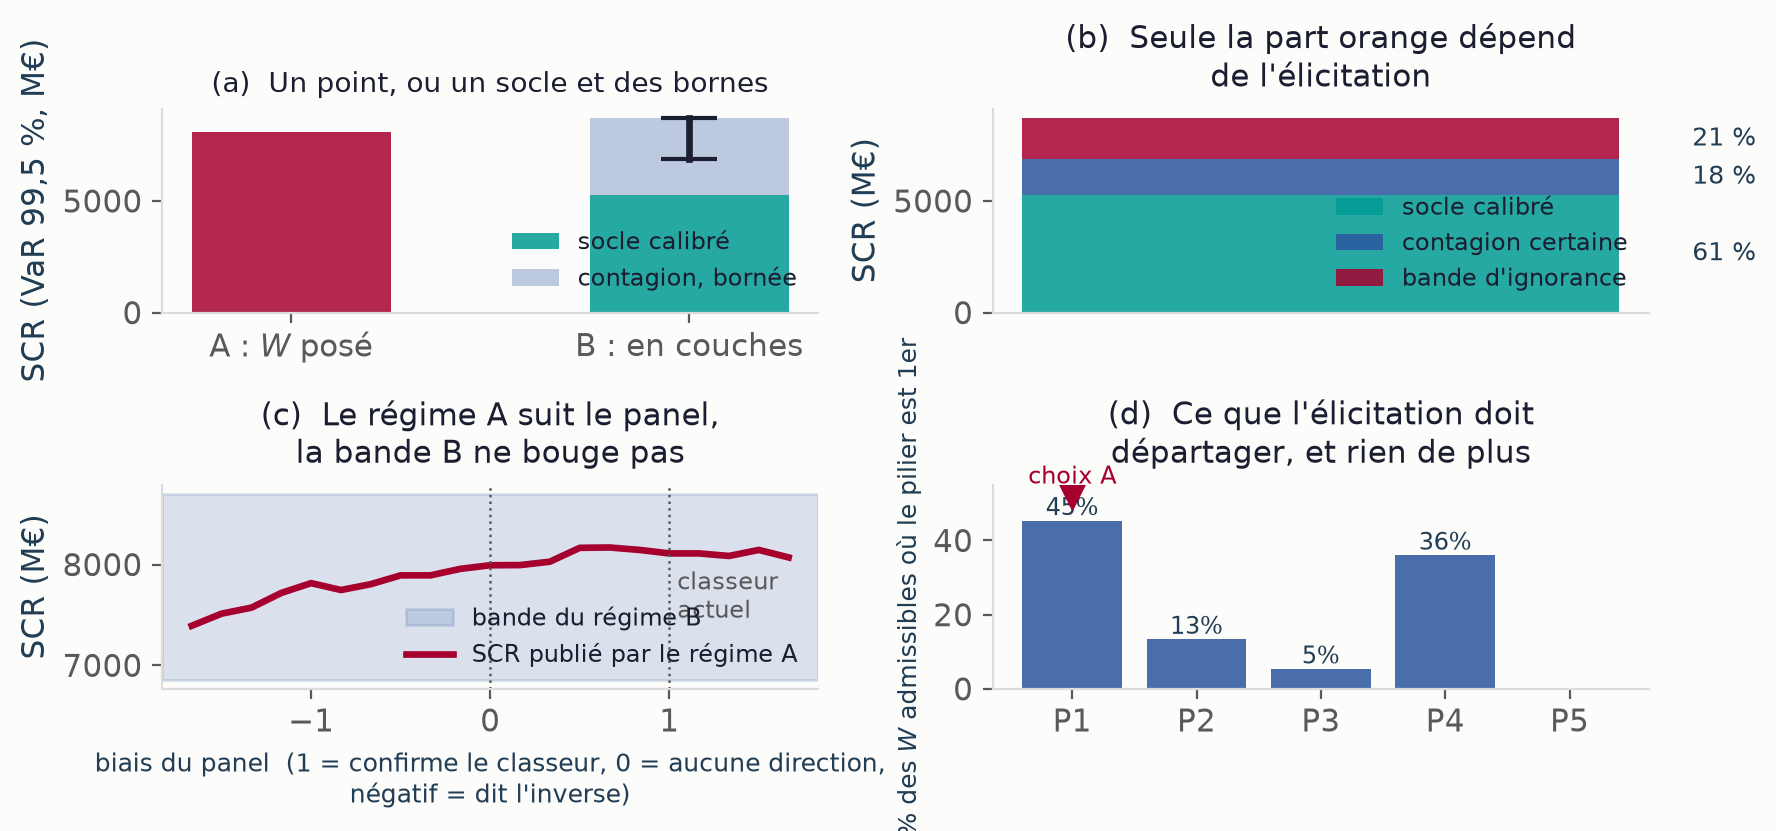
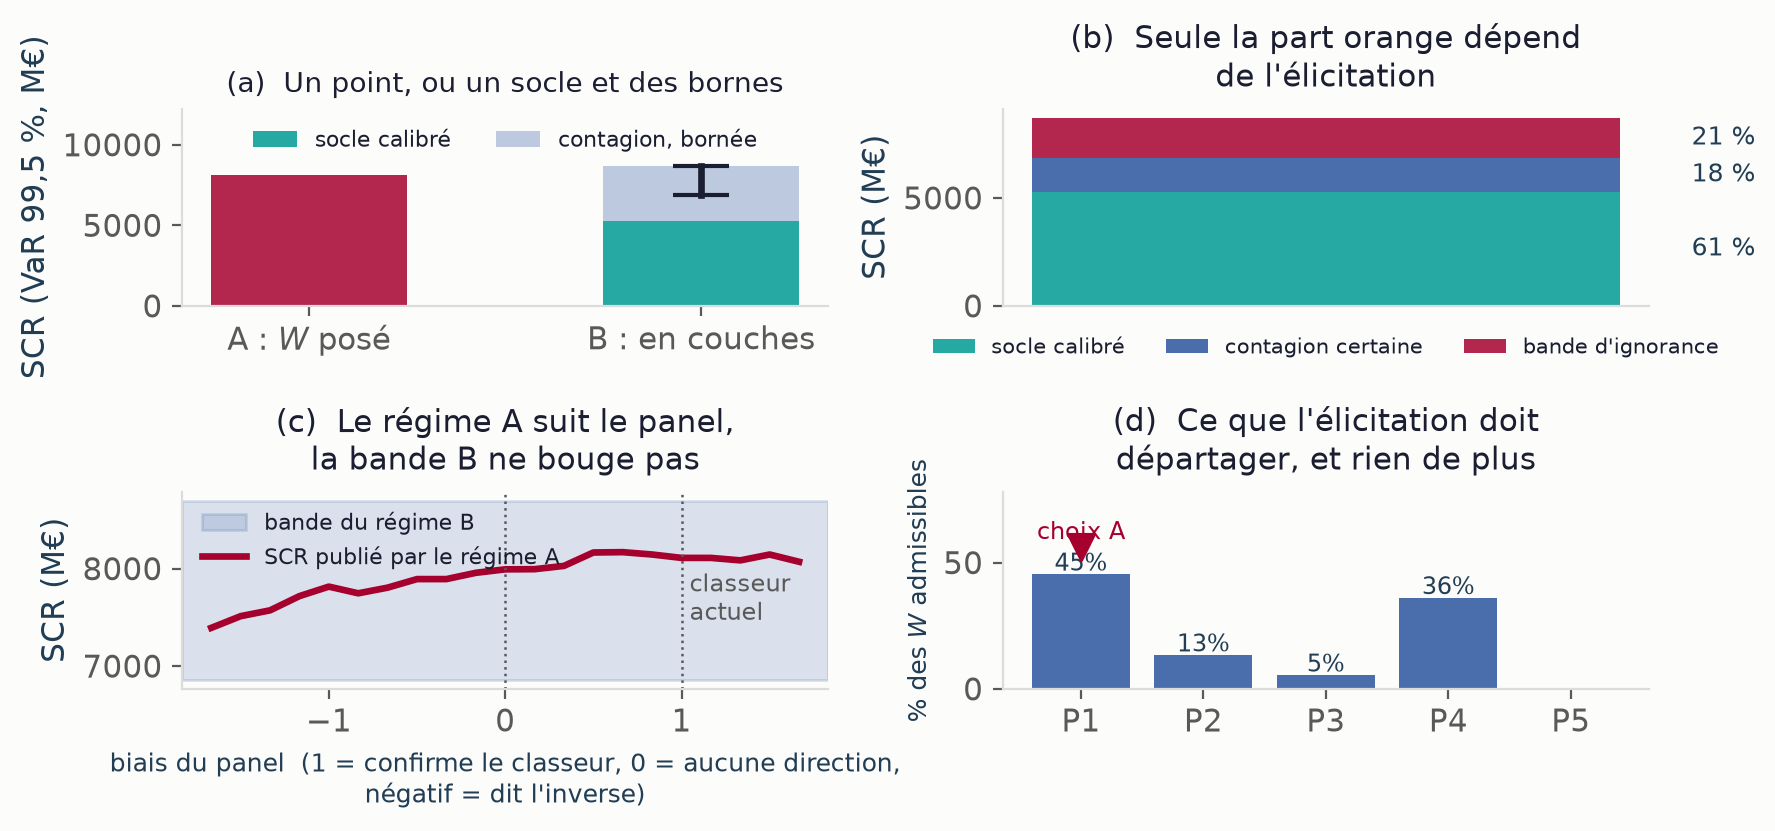
Z2 et S24 degagees, et les deux fichiers de passation remis a jour
Z2 : apres l'aplatissement en grille, les legendes tombaient sur les donnees. Celle de (a)
couvrait la barre B, celle de (b) la barre empilee, celle de (c) la courbe rouge ; l'intitule
d'axe de (d) debordait sur le panneau voisin et le marqueur << choix A >> touchait son
etiquette. Tout est degage, sortie standard inchangee.

S24 : legende ramenee dans l'angle libre et entrees raccourcies, apres le recadrage serre du
commit precedent.

REPRISE.md et CLAUDE.md portent l'etat du 15 septembre au soir : main_ensae 187 pages dont 134
de corps, main 171, main_v2 177, main_v3 150, harnais 2 157 nombres tous confirmes. Le journal
detaille la passe des figures, les trois suppressions, les onze figures qui restent a reprendre
sur un poste ayant data/raw, et le piege d'environnement du .venv (ffi.dll, PyMuPDF, tectonic).

UN PIEGE DE CLAUDE.md DEVENU FAUX A ETE CORRIGE : il prescrivait \figcle pour toute figure
portrait, c'est-a-dire exactement ce qui produisait les pages a revoir. La regle dit desormais
de retracer la figure et de l'appeler dans le fil du texte.

diff --git a/exploratory/vasicek_lab/6_contagion/31_comparaison_regimes.py b/exploratory/vasicek_lab/6_contagion/31_comparaison_regimes.py
@@ -219,7 +219,8 @@ ax1.set_xticks([0, 1])
 ax1.set_xticklabels(["A : $W$ posé", "B : en couches"])
 ax1.set_ylabel("SCR (VaR 99,5 %, M€)", color=INK2)
 ax1.set_title("(a)  Un point, ou un socle et des bornes", fontsize=10, color=INK, pad=6)
-ax1.legend(frameon=False, fontsize=8.5, loc="lower right")
+ax1.set_ylim(0, ax1.get_ylim()[1] * 1.34)
+ax1.legend(frameon=False, fontsize=8, loc="upper center", ncol=2)
 for s in ("top", "right"):
     ax1.spines[s].set_visible(False)
 
@@ -236,7 +237,7 @@ ax2.set_xticks([])
 ax2.set_ylabel("SCR (M€)", color=INK2)
 ax2.set_title("(b)  Seule la part orange dépend\nde l'élicitation", fontsize=11,
               color=INK, pad=8)
-ax2.legend(frameon=False, fontsize=8.5, loc="lower right")
+ax2.legend(frameon=False, fontsize=7.5, loc="upper center", bbox_to_anchor=(0.5, -0.06), ncol=3)
 for s in ("top", "right"):
     ax2.spines[s].set_visible(False)
 
@@ -251,7 +252,7 @@ ax3.set_xlabel("biais du panel  (1 = confirme le classeur, 0 = aucune direction,
 ax3.set_ylabel("SCR (M€)", color=INK2)
 ax3.set_title("(c)  Le régime A suit le panel,\nla bande B ne bouge pas", fontsize=11,
               color=INK, pad=8)
-ax3.legend(frameon=False, fontsize=8.5, loc="lower right")
+ax3.legend(frameon=False, fontsize=8, loc="upper left")
 for s in ("top", "right"):
     ax3.spines[s].set_visible(False)
 
@@ -262,12 +263,13 @@ for j in xs:
     if freq[j] > 0.005:
         ax4.text(j, 100 * freq[j] + 1.5, f"{100*freq[j]:.0f}%", ha="center", fontsize=8.5,
                  color=INK2)
-ax4.scatter([prio_exp], [100 * freq[prio_exp] + 7], marker="v", s=90, color=ACCENT, zorder=6)
-ax4.text(prio_exp, 100 * freq[prio_exp] + 10, "choix A", ha="center", fontsize=8.5,
+ax4.scatter([prio_exp], [100 * freq[prio_exp] + 11], marker="v", s=90, color=ACCENT, zorder=6)
+ax4.set_ylim(0, ax4.get_ylim()[1] * 1.32)
+ax4.text(prio_exp, 100 * freq[prio_exp] + 14, "choix A", ha="center", fontsize=8.5,
          color=ACCENT)
 ax4.set_xticks(xs)
 ax4.set_xticklabels([f"P{p}" for p in pid.PIL])
-ax4.set_ylabel("% des $W$ admissibles où le pilier est 1er", color=INK2, fontsize=9)
+ax4.set_ylabel("% des $W$ admissibles", color=INK2, fontsize=9)
 ax4.set_title("(d)  Ce que l'élicitation doit\ndépartager, et rien de plus", fontsize=11,
               color=INK, pad=8)
 for s in ("top", "right"):

diff --git a/REPRISE.md b/REPRISE.md
@@ -50,17 +50,23 @@ remerciements, un chapitre d'enseignements du stage et les deux notes de synthè
 
 | Document | Total | Corps | Débordements | Harnais |
 |---|---|---|---|---|
-| **`main_ensae.pdf`, le mémoire déposé** | **195 pages** | **140, annexes en 141** | **6, ligne de base** | 2 132 sur 2 132 |
-| `main.pdf`, version 1 | 186 pages | 136, annexes en 137 | 15, ligne de base | mêmes chapitres |
-| `main_v2.pdf`, version 2 | 192 pages | 140, annexes en 141 | 6, ligne de base | mêmes chapitres |
+| **`main_ensae.pdf`, le mémoire déposé** | **187 pages** | **134, annexes en 135** | **6, ligne de base** | 2 157 sur 2 157 |
+| `main.pdf`, version 1 | 171 pages | 124, annexes en 125 | 15, ligne de base | mêmes chapitres |
+| `main_v2.pdf`, version 2 | 177 pages | 128, annexes en 129 | 6, ligne de base | mêmes chapitres |
+| `main_v3.pdf`, version courte | 150 pages | 101, annexes en 102 | 5, ligne de base | mêmes chapitres, quatorze sections retirées |
 | `rapport_ensae.pdf` | 52 pages | 36, références comprises | 0 | 373 confirmés sur 373 |
 
-Découpage de `main_ensae` : Contexte en 8, Données en 22, Modélisation en 35, Résultats en 83,
-Robustesse en 116, **Le stage en 135**, Annexes en 141, **notes de synthèse en 191 et 193**.
+Découpage de `main_ensae` : Introduction en 9, Données en 23, Modélisation en 36, Résultats
+en 85, Robustesse en 110, **Le stage en 129**, Annexes en 135, **notes de synthèse en 183
+et 185**.
 
-**Harnais du mémoire : 2 132 nombres, 2 132 confirmés, 100 %**, et **0 hors contrôle non déclaré
-sur les dix-neuf chapitres**. Le total est passé de 2 346 à 2 132 par la coupe de la lecture de
-marché, non par une perte de contrôle : la couverture reste à 100 %.
+**Les huit pages gagnées le 15 septembre au soir sont les figures**, non du texte retiré : plus
+aucune figure n'est posée seule sur sa page, et trois figures inutilisées ont été supprimées.
+Voir l'entrée du journal.
+
+**Harnais du mémoire : 2 157 nombres, 2 157 confirmés, 100 %**, et **0 hors contrôle non déclaré
+sur les dix-neuf chapitres**, 93 nombres étant déclarés hors script avec leur motif (état de
+l'art, cadre réglementaire, démonstrations, pièces justificatives).
 
 **LES LIGNES « Sources : scripts… » NE S'IMPRIMENT PLUS, ET LE HARNAIS TIENT QUAND MÊME.** Depuis
 le 15 septembre elles vivent dans un commentaire LaTeX, `% SOURCES-SCRIPTS: NN`, que
@@ -655,7 +661,61 @@ Chacun a coûté du temps au moins une fois.
 ## 15 septembre 2026
 
 Journée sur `main_ensae`, qui devient le document déposé. Trois demandes de Kélian, et la
-deuxième a cassé la compilation avant d'être réparée.
+deuxième a cassé la compilation avant d'être réparée. Le soir, la passe des figures, reprise
+depuis le PC après l'échec en 429 de la veille.
+
+### Le soir : les figures, et le mémoire perd huit pages sans perdre une phrase
+
+**LE DÉFAUT DE FOND ÉTAIT `\figcle`.** Huit figures étaient posées par cette macro, qui les
+isole seules sur une page et les agrandit jusqu'à 0,88 fois la hauteur du texte. D'où les pages
+que Kélian a signalées : une image de 22 cm, un grand blanc, et une petite matrice perdue au
+milieu. **`\figcle` ne sert plus nulle part dans le mémoire**, et l'agent `verificateur-figures`
+l'interdit désormais par sa première directive.
+
+**Ce que les figures sont devenues.** Z11 passe de 21,9 à 7,3 cm, Z17 de 21,9 à 6,4, S19 de
+21,9 à 6,0, Z18 de 21,0 à 6,2, Z\_identification\_partielle de 16,2 à 8,8, Z2 de 16,2 à 8,6 ;
+Z20 et Z22 quittent leur page flottante. Les colonnes de panneaux sont retracées en lignes.
+**Une seule figure du document dépasse encore 9 cm, J3 à 10,3**, et son script exige le fichier
+OpRisk absent de ce poste.
+
+**22 TITRES CODÉS RETIRÉS dans 21 scripts.** Un mémoire publié par l'Institut ne porte pas
+« Z19 : » ni « S24 : » en tête d'une image : c'est un code de laboratoire, et la légende LaTeX
+porte déjà le titre. Chaque figure a été régénérée et **sa sortie standard comparée à
+`sorties_verif` : identique au caractère près**, sur les 21 scripts.
+
+**S24 portait un défaut invisible dans son code, et il valait la peine d'être cherché** : le
+script enregistrait **sans `bbox_inches="tight"`**, si bien que tout texte dépassant du cadre
+était coupé. Le titre du panneau (c) et son intitulé d'axe l'étaient. La règle du projet dit
+« toujours `bbox_inches="tight"` » ; ce script y échappait.
+
+**TROIS FIGURES SUPPRIMÉES**, sur demande de Kélian d'écarter ce qui pose trop de problèmes pour
+ce que cela apporte. `M_faisabilite` (jamais citée, ne se régénère que sur le Mac, seule figure
+restée à l'ancienne palette), `S32_tornado_normalise` (jamais citée, tableau voisin donnant les
+mêmes élasticités) et `S22_entites_reelles` (jamais citée, 22 cm, script bloqué par l'absence de
+`data/raw`, et la section porte déjà le tableau des quatre entités). **`Z14` a été épargnée
+parce qu'elle est citée** : le script de suppression refuse toute figure dont un `\ref` dépend.
+
+**LE POSTE N'A PAS `data/raw`, ET CELA DÉCIDE DE CE QUI EST FAISABLE ICI.** Deux fonctions
+seulement lisent la donnée brute, `oprisk_losses` et `oprisk_excesses` ; les scripts qui les
+appellent ne peuvent pas régénérer leur figure. **Restent donc à reprendre sur un poste qui a
+les données** : Z6, J2, J4, J7, S10, Z14, S16, S17, S20, N2 et J3, qui portent encore un titre
+ou un code en dur. Ne pas modifier leur script ici : ce serait le désynchroniser de son image,
+exactement l'état qu'a laissé la session interrompue.
+
+**Deux défauts de mise en page corrigés au passage** : les espaces parasites « ( figure 8.2) »
+et « ( figure 10.3) », laissées par les commentaires `SOURCES-SCRIPTS` insérés en milieu de
+phrase (un `%` en fin de ligne les supprime), et un renvoi vers l'équation de Hill qui restait
+non résolu dans la v3, où la section qui la définit est retirée.
+
+**Contrôles.** `main_ensae` 187 pages, `main` 171, `main_v2` 177, `main_v3` 150 ; 0 erreur,
+0 vbox, 0 annotation hors page, 0 page tournée, 0 « ?? » dans les quatre PDF, débordements à la
+ligne de base partout. Harnais 2 157 nombres, tous confirmés.
+
+**Piège d'environnement, à savoir avant de relancer un script sur ce poste.** Le `.venv` ne
+trouvait pas `ffi.dll`, d'où « scipy install broken » et l'échec de `pip`. Un fichier
+`zz_dll_ffi.pth` dans `.venv/Lib/site-packages` ajoute le dossier de DLL au démarrage et règle
+les deux. PyMuPDF y est installé, ce qu'exige `carte_figures.py`. Et `memoire\tectonic.exe`
+n'existe pas ici : le binaire est `C:\Users\kelia\miniconda3\Library\bin\tectonic.exe`.
 
 ### `6517607` : les renvois de script sortent du PDF
 

diff --git a/CLAUDE.md b/CLAUDE.md
@@ -44,10 +44,14 @@ faut comparer pour savoir si un débordement est nouveau. `main.pdf` est version
 `main_v2.pdf` est gitignoré, ce qui ne dispense pas de le régénérer : un PDF périmé sur le
 poste est exactement ce qui a fait présenter du travail antérieur comme récent le 21 août.
 
-État au **9 septembre 2026 au soir** : v1 à **186 pages dont 136 de corps** (annexes en 137),
-v2 à **192 pages dont 140 de corps** (annexes en 141), branche `exploratory`. Les comptes de ce
+État au **15 septembre 2026 au soir**, après la passe des figures : **`main_ensae` à 187 pages
+dont 134 de corps** (annexes en 135), v1 à **171 pages dont 124 de corps** (annexes en 125),
+v2 à **177 pages dont 128 de corps** (annexes en 129), v3 à **150 pages dont 101 de corps**
+(annexes en 102), branche `exploratory`. Les huit pages gagnées ce soir-là sont des figures, non
+du texte : **`\figcle` ne sert plus nulle part**, donc plus aucune figure n'est seule sur sa
+page, et trois figures inutilisées ont été retirées. Les comptes de ce
 fichier se périment en deux jours : lire `main.toc` plutôt que cette ligne en cas de doute.
-Harnais au 9 septembre : **2 346 nombres, 2 346 confirmés, 100 %**, et **0 hors
+Harnais au 15 septembre : **2 157 nombres, 2 157 confirmés, 100 %**, et **0 hors
 contrôle non déclaré sur les dix-neuf chapitres**. Les six pages gagnées dans le corps le
 9 septembre sont la lecture de marché de l'introduction, demandée par Kélian : voir la section
 « La page de garde et la lecture de marché » plus bas. Ce
@@ -519,8 +523,14 @@ avec son bruit. Un lecteur qui voit ± 7 ne pose plus la question du troisième 
 - **Une figure portrait ne se dimensionne qu'en HAUTEUR sur une slide 4:3.** Posée en largeur,
   elle fait déborder son cadre (jusqu'à 7 cm constatés). `height=0.80\textheight`, et elle a sa
   propre slide.
-- **`\figover` ne contraint pas la hauteur.** Une figure portrait dans le mémoire prend
-  `\figcle` (page entière), jamais `\figover`.
+- **`\figcle` EST INTERDIT DEPUIS LE 15 SEPTEMBRE, et la consigne a changé de sens.** Cette macro
+  pose la figure seule sur sa page et l'agrandit jusqu'à 0,88 fois la hauteur du texte : c'est
+  elle qui produisait les pages « totalement à revoir » signalées par Kélian, une image de 22 cm
+  au milieu d'un grand blanc. Une figure portrait ne se pose donc plus en pleine page : **elle se
+  retrace en ligne ou en grille compacte dans son script**, pour 5 à 9 cm imprimés, et s'appelle
+  par un environnement `figure` avec `\figover`. `\figover` ne contraint toujours pas la hauteur :
+  quand une figure déjà plate dépasse d'un cheveu, réduire la largeur d'appel
+  (`\includegraphics[width=0.99\textwidth]`) plutôt que la laisser flotter seule.
 - **Les PDF de `exploratory/slides/` peuvent être périmés** par rapport à `build/`. Recopier
   après compilation.
 - **Un job d'arrière-plan peut écraser une figure après un commit.** Comparer les horodatages.
